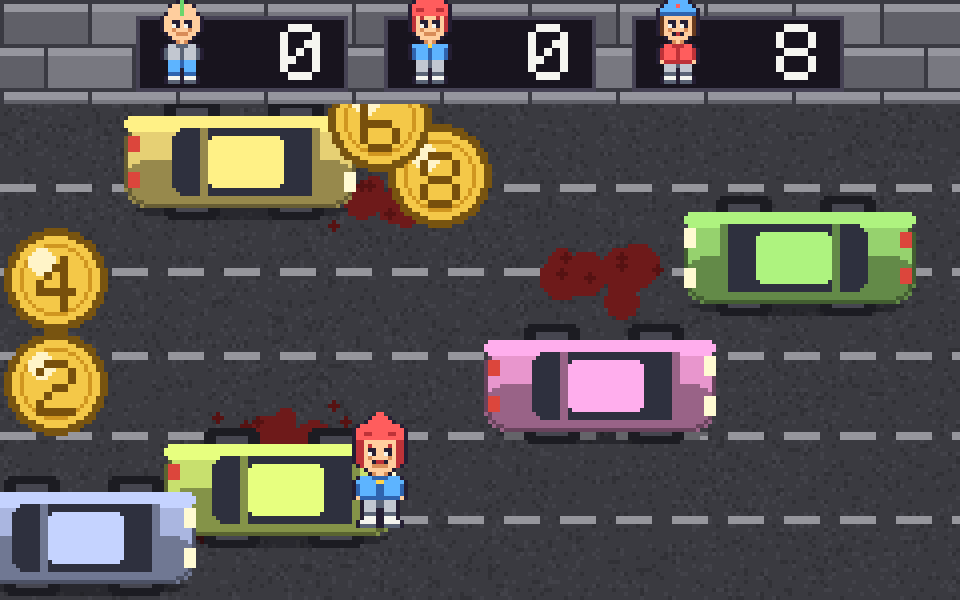
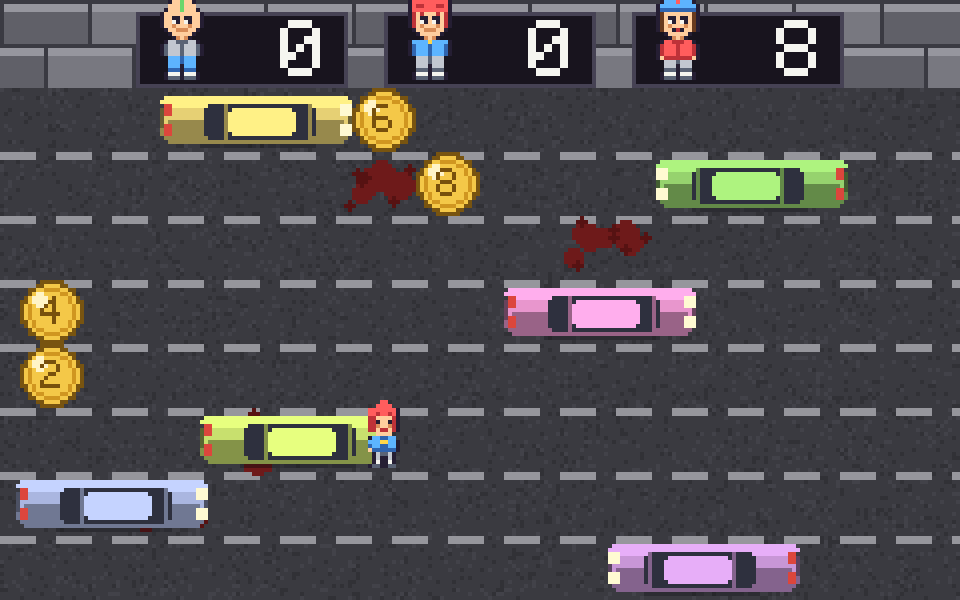
Traffic Run mockup v2: no tyres, lane-fit cars, 7 lanes, bigger road
Removed car tyres, shrank cars to fit inside a single lane (they drive
between two lines), 8 lanes (7 dashed lines), smaller coins, bigger road,
thin grass strip, smaller players.

Claude-Session: https://claude.ai/code/session_01BmHu9ZjHHfJoGBLXT33Kpc

diff --git a/art/traffic.py b/art/traffic.py
@@ -27,38 +27,31 @@ WIN = (46, 48, 62)        # window glass
 WHEEL = (28, 28, 34)
 
 def draw_car(base, facing=1):
+    """Top-down car sized to fit inside ONE lane. No tyres (clean body)."""
     body = base; light = lit(base, 1.16); dark = lit(base, 0.66)
-    W, H = 64, 30
+    W, H = 50, 14
     im = Image.new("RGBA", (W, H), (0, 0, 0, 0)); d = ImageDraw.Draw(im)
-    d.ellipse([6, H - 5, W - 6, H - 1], fill=(8, 8, 12, 90))                       # ground shadow
-    for wx in (13, W - 25):                                                        # 4 wheels poking out
-        d.rounded_rectangle([wx, 0, wx + 13, 6], 2, fill=(*WHEEL, 255))
-        d.rounded_rectangle([wx, H - 7, wx + 13, H - 1], 2, fill=(*WHEEL, 255))
-        d.rectangle([wx + 3, 2, wx + 10, 4], fill=(70, 70, 80, 255))
-        d.rectangle([wx + 3, H - 5, wx + 10, H - 3], fill=(70, 70, 80, 255))
-    d.rounded_rectangle([3, 4, W - 4, H - 4], 7, fill=(*body, 255))                # body
-    d.rounded_rectangle([3, H // 2, W - 4, H - 4], 7, fill=(*dark, 255))           # lower-half shade
-    d.rounded_rectangle([3, 4, W - 4, H - 4], 7, outline=(*lit(base, 0.45), 255), width=1)
-    d.rounded_rectangle([3, 4, W - 4, 7], 3, fill=(*light, 255))                   # top highlight
-    d.rounded_rectangle([15, 7, W - 13, H - 7], 3, fill=(*WIN, 255))               # dark cabin/glass
-    d.rounded_rectangle([24, 9, W - 22, H - 9], 2, fill=(*light, 255))             # light roof centre
-    for sx in (W - 14, 22):                                                        # window pillars
-        d.rectangle([sx, 7, sx + 1, H - 7], fill=(*dark, 255))
-    d.rectangle([W - 6, 8, W - 4, 12], fill=(255, 250, 210, 255))                  # headlights (front = right)
-    d.rectangle([W - 6, H - 12, W - 4, H - 8], fill=(255, 250, 210, 255))
-    d.rectangle([4, 9, 6, 12], fill=(220, 70, 60, 255)); d.rectangle([4, H - 12, 6, H - 9], fill=(220, 70, 60, 255))  # tail lights
+    d.ellipse([5, H - 3, W - 5, H - 1], fill=(8, 8, 12, 70))                       # faint ground shadow
+    d.rounded_rectangle([1, 1, W - 2, H - 2], 4, fill=(*body, 255), outline=(*lit(base, 0.45), 255), width=1)
+    d.rounded_rectangle([1, H // 2, W - 2, H - 2], 4, fill=(*dark, 255))           # lower-half shade
+    d.rounded_rectangle([1, 1, W - 2, 3], 2, fill=(*light, 255))                   # top highlight
+    d.rounded_rectangle([12, 3, W - 11, H - 3], 2, fill=(*WIN, 255))               # dark cabin/glass
+    d.rounded_rectangle([18, 4, W - 16, H - 4], 1, fill=(*light, 255))             # light roof centre
+    for sx in (W - 12, 17): d.rectangle([sx, 3, sx, H - 3], fill=(*dark, 255))     # window pillars
+    d.rectangle([W - 4, 3, W - 2, 5], fill=(255, 250, 210, 255)); d.rectangle([W - 4, H - 6, W - 2, H - 4], fill=(255, 250, 210, 255))  # headlights (front=right)
+    d.rectangle([2, 3, 3, 5], fill=(220, 70, 60, 255)); d.rectangle([2, H - 6, 3, H - 4], fill=(220, 70, 60, 255))  # tail lights
     if facing < 0: im = im.transpose(Image.FLIP_LEFT_RIGHT)
     return im
 
-# ---- coin with a value number ----
+# ---- coin with a value number (small) ----
 def draw_coin(val):
-    W = 26
+    W = 16
     im = Image.new("RGBA", (W, W), (0, 0, 0, 0)); d = ImageDraw.Draw(im)
     d.ellipse([0, 0, W - 1, W - 1], fill=(120, 84, 16, 255))                       # rim
-    d.ellipse([2, 2, W - 3, W - 3], fill=(244, 200, 72, 255))                      # gold
-    d.ellipse([4, 4, W - 5, W - 5], outline=(208, 150, 32, 255), width=1)
-    d.ellipse([6, 5, 12, 11], fill=(255, 244, 200, 255))                          # shine
-    t = pf.text(str(val), 2, (120, 80, 12)); im.alpha_composite(t, ((W - t.width) // 2, (W - t.height) // 2 + 1))
+    d.ellipse([1, 1, W - 2, W - 2], fill=(244, 200, 72, 255))                      # gold
+    d.ellipse([2, 2, W - 3, W - 3], outline=(208, 150, 32, 255), width=1)
+    d.ellipse([3, 3, 6, 6], fill=(255, 244, 200, 255))                            # shine
+    t = pf.text(str(val), 1, (120, 80, 12)); im.alpha_composite(t, ((W - t.width) // 2, (W - t.height) // 2))
     return im
 
 # ---- grass tile ----
@@ -130,25 +123,27 @@ def road(im, y0, y1, lanes):
 def scene(show_grass=True):
     W, H = 240, 150
     im = Image.new("RGBA", (W, H), (*ASPH, 255))
-    WALL_H = 26; GRASS_H = 16 if show_grass else 0
-    road(im, WALL_H, H - GRASS_H, lanes=6)
-    # blood splats
-    blood(im, 70, 110, 12); blood(im, 150, 70, 10); blood(im, 95, 50, 9); blood(im, 40, 130, 8)
-    # cars (varied colours / directions across lanes)
-    cars = [("yellow", 60, 40, 1), ("green", 200, 64, -1), ("pink", 150, 96, 1), ("lime", 70, 122, 1), ("blue", 20, 134, 1)]
-    for col, cx, cy, fac in cars:
-        c = draw_car(CARS[col], fac); im.alpha_composite(c, (cx - c.width // 2, cy - c.height // 2))
+    WALL_H = 22; GRASS_H = 8 if show_grass else 0
+    LANES = 8                                                                      # -> 7 dashed lane lines
+    road(im, WALL_H, H - GRASS_H, lanes=LANES)
+    laneH = (H - GRASS_H - WALL_H) / LANES
+    def lc(L): return int(WALL_H + (L + 0.5) * laneH)                              # lane centre y
+    blood(im, 70, lc(5), 8); blood(im, 150, lc(2), 7); blood(im, 95, lc(1), 6); blood(im, 40, lc(6), 6)
+    # cars, each centred in its own lane, alternating direction
+    cars = [("yellow", 64, 0, 1), ("green", 188, 1, -1), ("pink", 150, 3, 1), ("lime", 74, 5, 1), ("blue", 28, 6, 1), ("purple", 176, 7, -1)]
+    for col, cx, L, fac in cars:
+        c = draw_car(CARS[col], fac); im.alpha_composite(c, (cx - c.width // 2, lc(L) - c.height // 2))
     # coins (value grows the higher up they are)
-    for val, cx, cy in [(8, 110, 44), (6, 95, 30), (4, 14, 70), (2, 14, 96)]:
-        cc = draw_coin(val); im.alpha_composite(cc, (cx - cc.width // 2, cy - cc.height // 2))
-    # grass
+    for val, cx, L in [(8, 112, 1), (6, 96, 0), (4, 13, 3), (2, 13, 4)]:
+        cc = draw_coin(val); im.alpha_composite(cc, (cx - cc.width // 2, lc(L) - cc.height // 2))
+    # grass safe zone + a small player on it
     if show_grass:
         gs = grass_strip(W, GRASS_H); im.alpha_composite(gs, (0, H - GRASS_H))
-        fighter(im, "NOVA", 40, H - 2, scale=1.0)
-    fighter(im, "NOVA", 95, 132, scale=1.0)
+        fighter(im, "NOVA", 40, H - 1, scale=0.62)
+    fighter(im, "NOVA", 96, lc(5) + 7, scale=0.62)
     # wall + scoreboards on top
     ws = wall_strip(W, WALL_H); im.alpha_composite(ws, (0, 0))
-    scoreboard(im, 34, 4, "GLITCH", 0); scoreboard(im, 96, 4, "NOVA", 0); scoreboard(im, 158, 4, "ACE", 8)
+    scoreboard(im, 34, 3, "GLITCH", 0); scoreboard(im, 96, 3, "NOVA", 0); scoreboard(im, 158, 3, "ACE", 8)
     return im.resize((W * 4, H * 4), Image.NEAREST)
 
 def assets_sheet():
